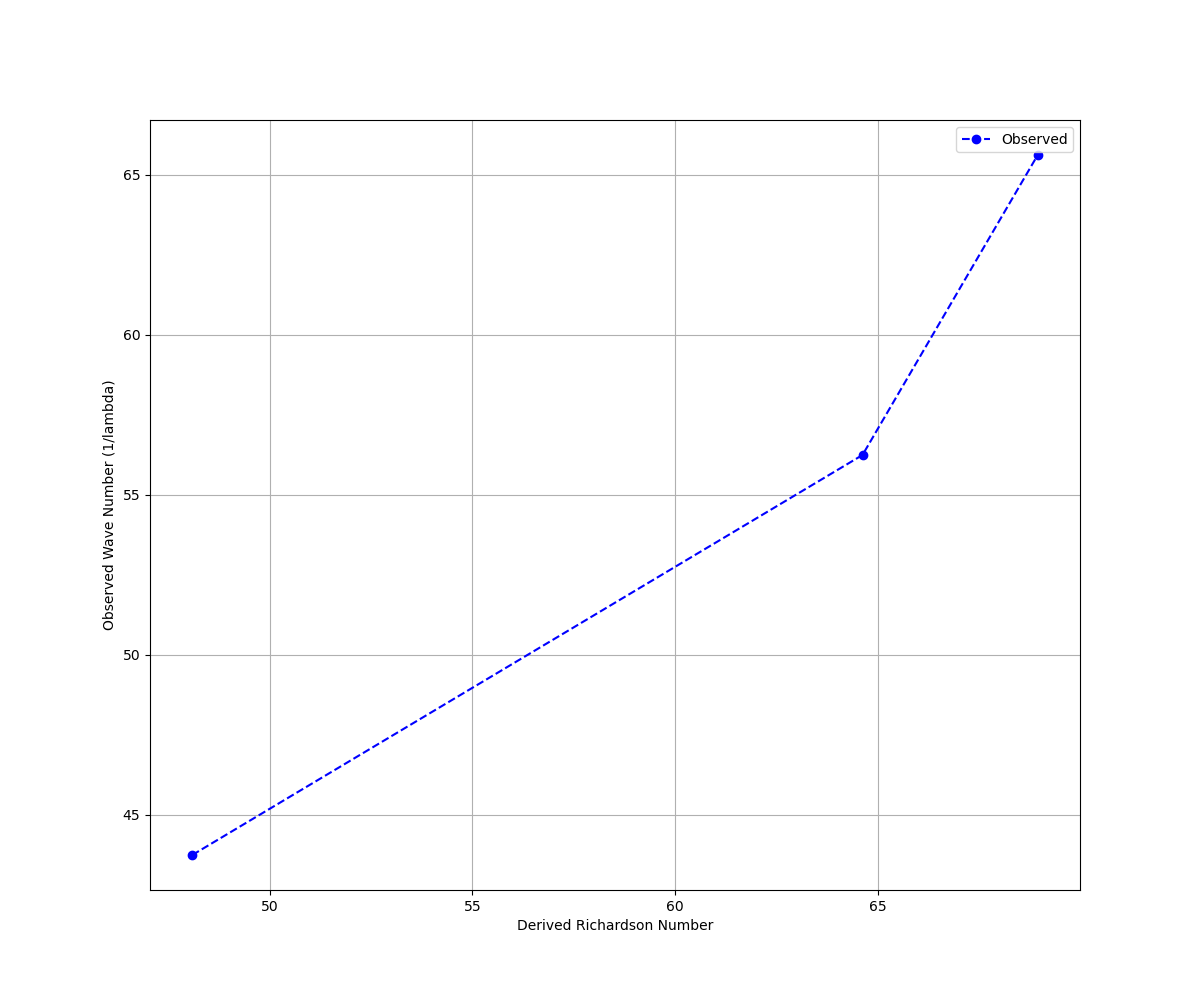
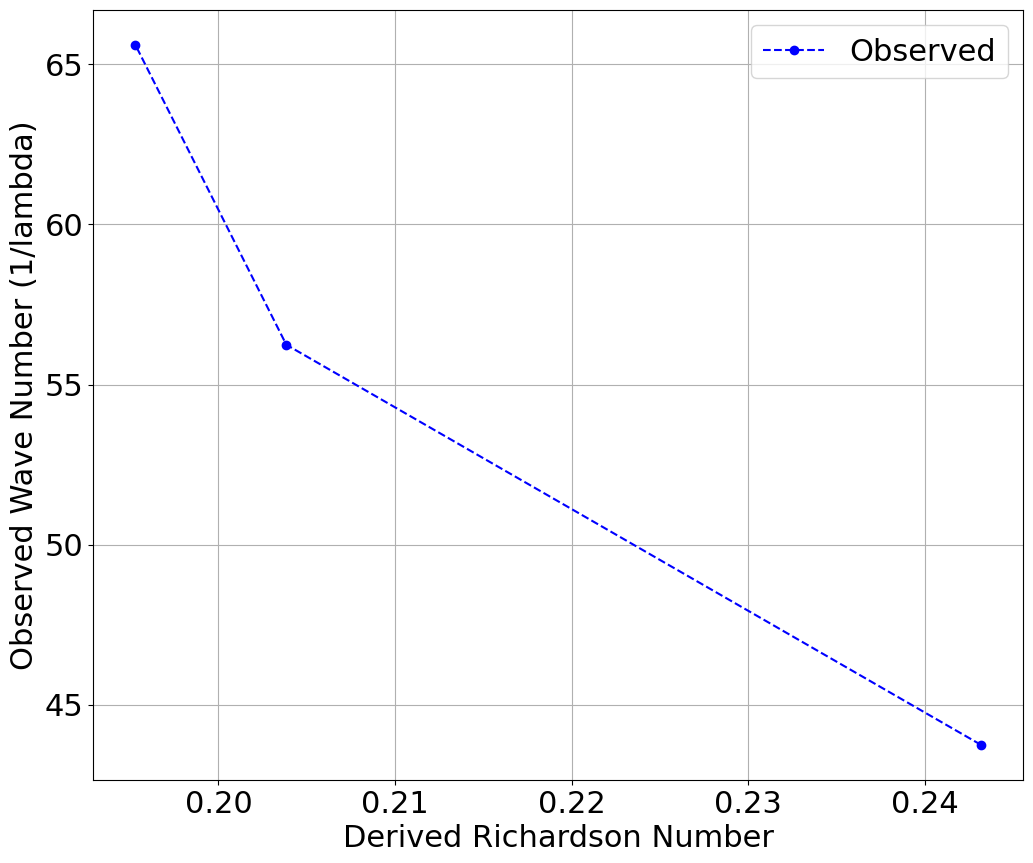
Data Shenanigans 2

diff --git a/project/kh-instability-paper.tex b/project/kh-instability-paper.tex
@@ -120,41 +120,34 @@ from a reference frame tracking the rotation of the channel.
     \caption{Schematic of the Tank. Coordinates were rotated by $-\theta$ so that the coordinate axes are parallel and perpendicular to the bottom of the channel.}
     \label{img:tank-schematic}
 \end{figure}
-Tracking the height
-over time gives us the flow rate of the liquid, which we can divide by the cross
-section of the channel to find the fluid velocity. The velocity varies over
-time, so we chose to average the velocity during the time after the channel was
-tilted, but before the instability started.
-
-Using the density and fluid velocity, we can compute the Richardson number
-
-\[ \text{Ri} = \frac{g}{\rho} \frac{\Delta \rho}{\Delta U} \]
-
-where \(g\) is acceleration due to gravity and \(\rho\) is the density of one fluid, which we set to the density of fresh water (1000 kg/m\textsuperscript{2}) for this analysis.
+Tracking the height over time gives us the flow rate of the liquid, which we can
+divide by the cross section of the channel to find the fluid velocity. The
+velocity varies over time, so we chose to average the velocity during the time
+after the channel was tilted, but before the instability started. We then used
+this data to compute the Richardson Number.
 
 \begin{table}[h!]
     \centering
     \begin{tabular}{|c|c|c|c|c|c|}
     \hline
     \textbf{Salinity (\%)} & $\bm{\Delta \rho}$ \textbf{(kg/m\textsuperscript{3})} & $\bm{\Delta U}$ \textbf{(m/s)}& \textbf{Ri} & $\bm{k}$ \textbf{(1/m)}& $\bm{\lambda}$ \textbf{(m)}\\ \hline
-    3.5 & 24.640773 & 0.07 & 48.096414 & 43.744532 & 0.02286 \\ \hline
-    9.5 & 70.584422 & 0.10 & 64.612124 & 56.242970 & 0.01778 \\ \hline
-    15.0 & 112.699310 & 0.12 & 68.929800 & 65.616798 & 0.01524 \\ \hline
+    3.5 & 0.636796 & 0.07 & 0.243153 & 43.744532 & 0.022860 \\
+    9.5 & 1.089990 & 0.10 & 0.203845 & 56.242970 & 0.017780 \\
+    15.0 & 1.504392 & 0.12 & 0.195297 & 65.616798 & 0.015240 \\
+    \hline
     \end{tabular}
     \caption{Summary of collected and derived data from the lab.}
     \label{tab:data}
 \end{table}
 
-In Figure \ref{graph:Ri-vs-k} we plot the relationship between Ri and \(k\).
+In Figure \ref{graph:Ri-vs-k} we plot the relationship between Ri and \(k\). We observe that \(\text{Ri} < 1/4\) for all trials, and that as the Richardson Number increases, the observed wave number decreases non-linearly.
 
 \begin{figure}[h!]
     \centering
     \includegraphics[width=5in]{RivsK.png}
-    \caption{Wave number $k$ as a function of Ri. Admittedly, with three data points, it is hard to identify any kind of dependence.}
+    \caption{Wave number $k$ as a function of Ri.}
     \label{graph:Ri-vs-k}
 \end{figure}
-
-For Ri \(< 1/4\), we expect the system to remain 
 
 \section{Future Work}
 
